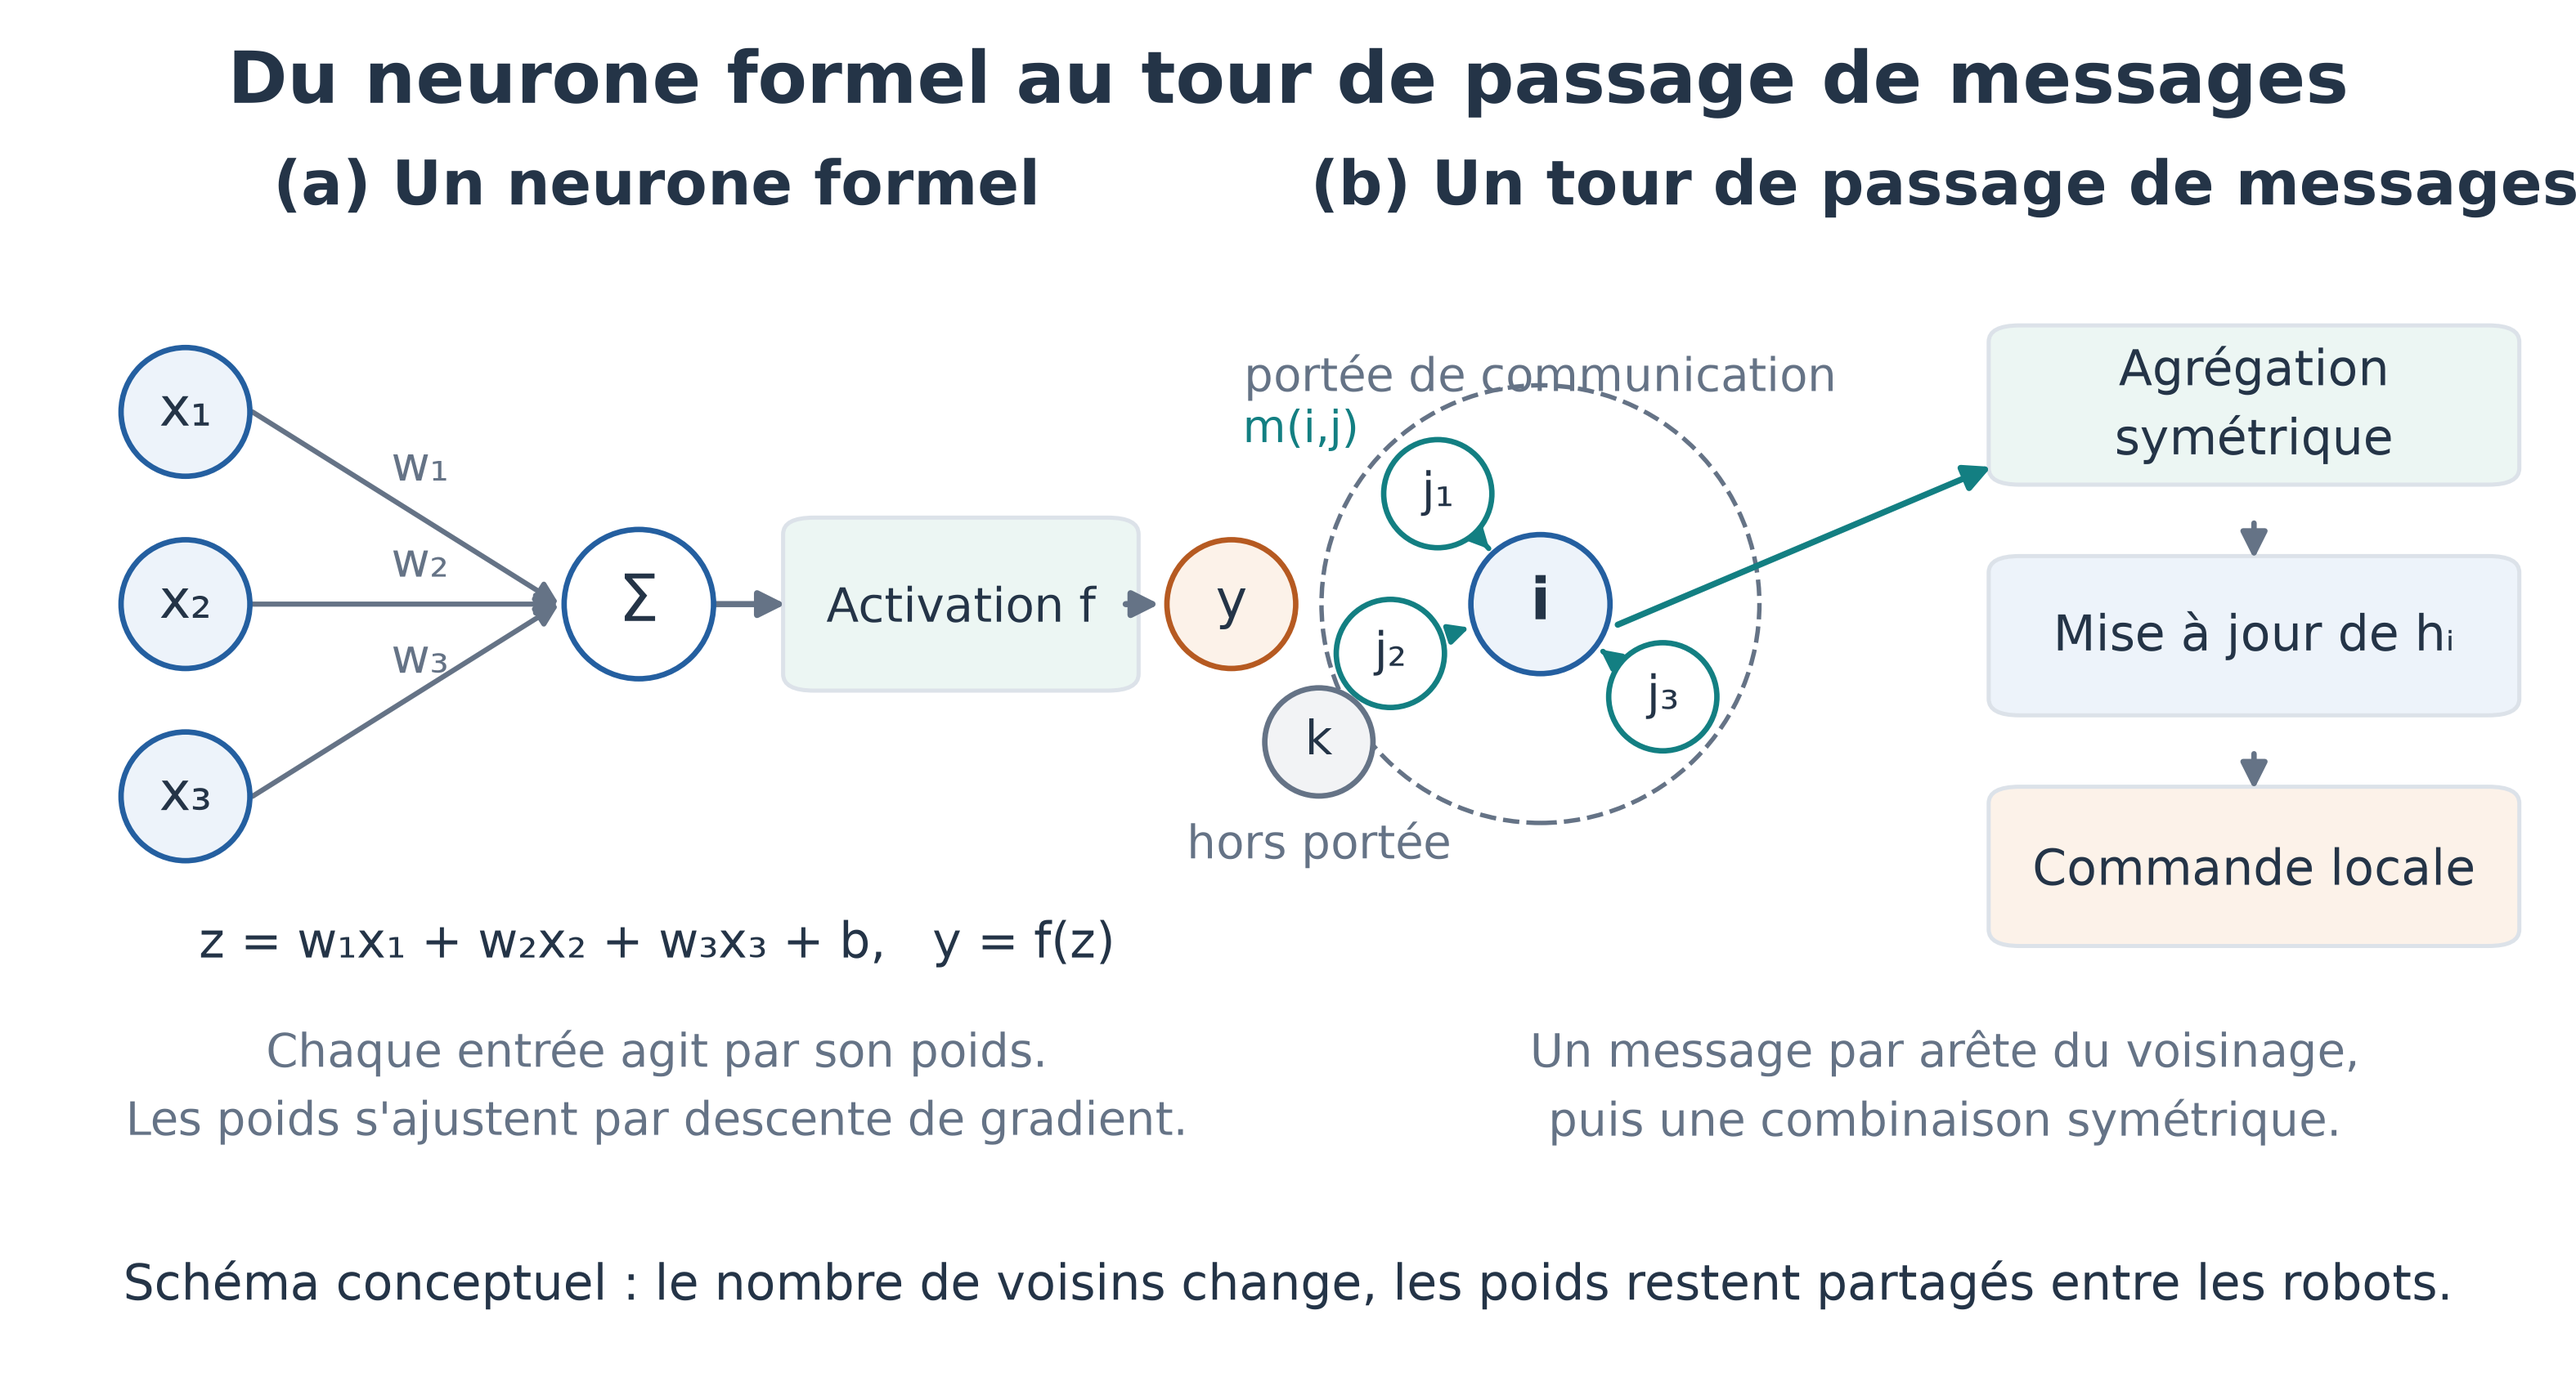
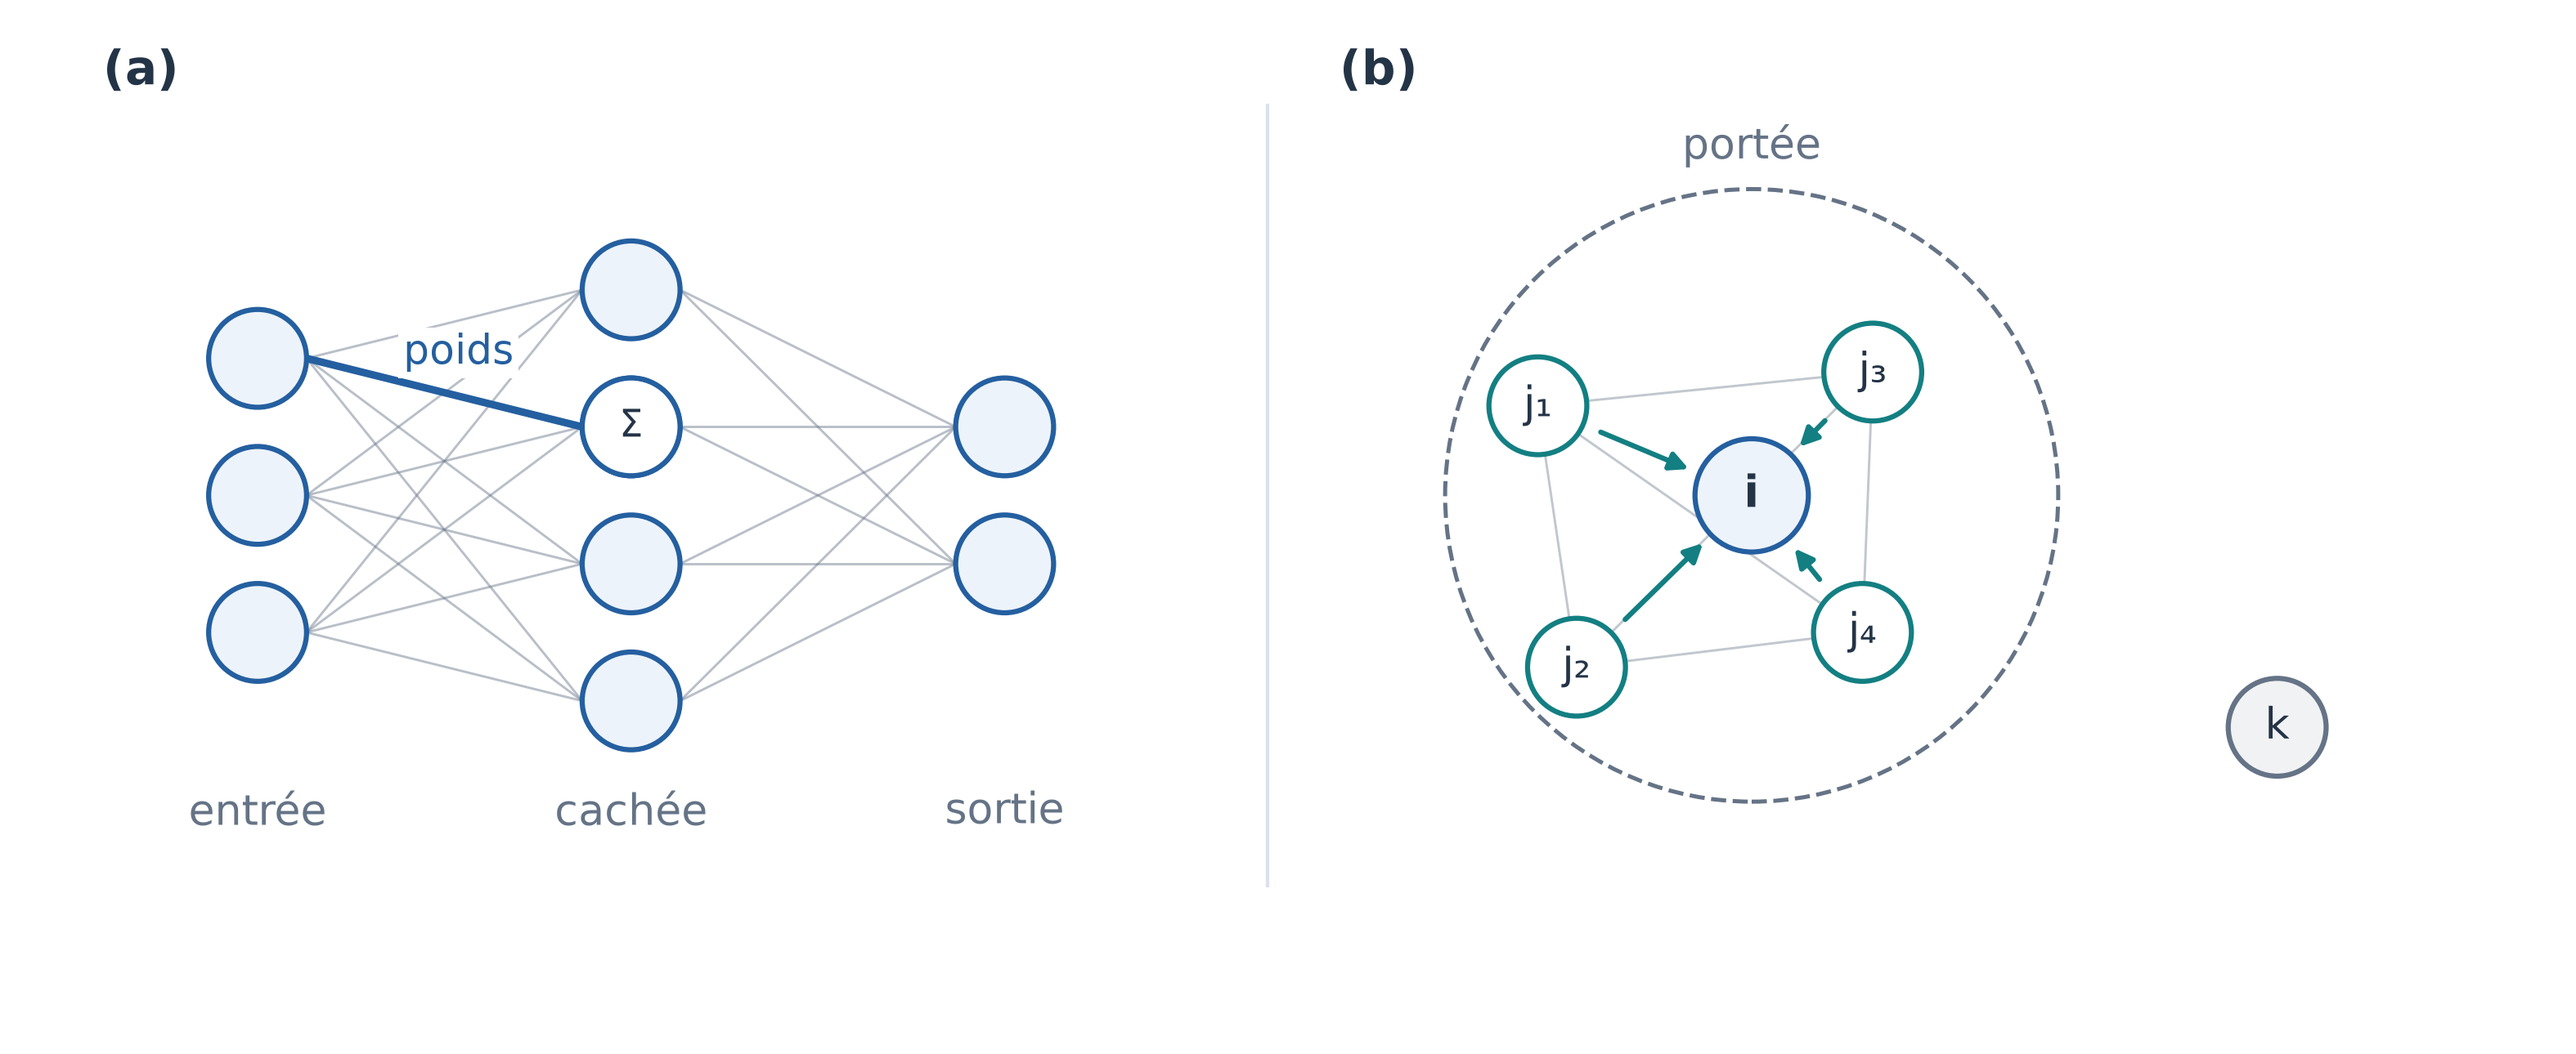
fix: redraw Figure 1.1 as a real layered network with no internal titles
The first draft carried a heading, two bold panel titles, a formula line and
three explanatory sentences inside the image, which read as a slide rather
than a manuscript figure. Panel (a) now draws an actual three-layer network
with every inter-layer connection, and the removed prose moves into the
paragraph that announces the figure so the List of Figures stays one line.

diff --git a/latex/generate_scientific_figures.py b/latex/generate_scientific_figures.py
@@ -203,64 +203,54 @@ def style_plot(ax: plt.Axes) -> None:
 
 
 def neuron_and_message_passing() -> plt.Figure:
-    height = 5.6
+    height = 4.3
     fig, ax = canvas(height)
-    header(fig, "Du neurone formel au tour de passage de messages")
     ratio = WIDTH / height
 
-    def node(x: float, y: float, radius: float, text: str, color: str = PALE_BLUE,
-             edge: str = BLUE, fontsize: float = 15.5, weight: str = "normal") -> None:
+    def node(x: float, y: float, radius: float, text: str = "", color: str = PALE_BLUE,
+             edge: str = BLUE, fontsize: float = 12.5, weight: str = "normal") -> None:
         ax.add_patch(Ellipse((x, y), 2 * radius, 2 * radius * ratio,
-                             facecolor=color, edgecolor=edge, linewidth=1.6, zorder=4))
-        ax.text(x, y, text, ha="center", va="center", fontsize=fontsize, weight=weight, zorder=5)
+                             facecolor=color, edgecolor=edge, linewidth=1.5, zorder=4))
+        if text:
+            ax.text(x, y, text, ha="center", va="center", fontsize=fontsize, weight=weight, zorder=5)
 
-    ax.text(0.255, 0.885, "(a) Un neurone formel", ha="center", va="top", weight="bold", fontsize=18)
-    hub_a = (0.248, 0.560)
-    for y, label, weight_label in ((0.700, "x₁", "w₁"), (0.560, "x₂", "w₂"), (0.420, "x₃", "w₃")):
-        node(0.072, y, 0.025, label)
-        arrow(ax, (0.098, y), (hub_a[0] - 0.031, hub_a[1]), color=GRAY, linewidth=1.5, mutation_scale=13)
-        ax.text(0.163, (y + hub_a[1]) / 2 + 0.020, weight_label, ha="center", fontsize=14, color=GRAY)
-    node(*hub_a, 0.029, "Σ", color="white", fontsize=19)
-    box(ax, 0.312, 0.505, 0.122, 0.110, "Activation f", color=PALE_TEAL, fontsize=14)
-    arrow(ax, (hub_a[0] + 0.030, hub_a[1]), (0.305, hub_a[1]), color=GRAY)
-    node(0.478, hub_a[1], 0.025, "y", color=PALE_ORANGE, edge=ORANGE)
-    arrow(ax, (0.437, hub_a[1]), (0.450, hub_a[1]), color=GRAY)
-    ax.text(0.255, 0.330, "z = w₁x₁ + w₂x₂ + w₃x₃ + b,   y = f(z)",
-            ha="center", va="top", fontsize=14.5)
-    ax.text(0.255, 0.258, "Chaque entrée agit par son poids.\nLes poids s'ajustent par descente de gradient.",
-            ha="center", va="top", fontsize=13.5, color=GRAY, linespacing=1.5)
+    ax.text(0.040, 0.92, "(a)", ha="left", fontsize=14, weight="bold")
+    ax.text(0.520, 0.92, "(b)", ha="left", fontsize=14, weight="bold")
+    ax.plot([0.492, 0.492], [0.16, 0.90], color=GRID, linewidth=1.0)
 
-    ax.text(0.755, 0.885, "(b) Un tour de passage de messages", ha="center", va="top",
-            weight="bold", fontsize=18)
-    hub = (0.598, 0.560)
-    ax.add_patch(Ellipse(hub, 0.170, 0.170 * ratio, facecolor="white", edgecolor=GRAY,
-                         linewidth=1.3, linestyle="--", zorder=1))
-    ax.text(hub[0], 0.742, "portée de communication", ha="center", va="top", fontsize=13.5, color=GRAY)
-    node(*hub, 0.027, "i", color=PALE_BLUE, weight="bold", fontsize=17)
-    for angle, label in ((130, "j₁"), (200, "j₂"), (320, "j₃")):
-        rad = np.deg2rad(angle)
-        x = hub[0] + 0.062 * np.cos(rad)
-        y = hub[1] + 0.105 * np.sin(rad)
-        node(x, y, 0.021, label, color="white", edge=TEAL, fontsize=14)
-        arrow(ax, (x, y), hub, color=TEAL, linewidth=1.5, mutation_scale=12, shrink=22)
-    ax.text(0.505, 0.678, "m(i,j)", ha="center", fontsize=13, color=TEAL,
-            bbox={"facecolor": "white", "edgecolor": "none", "pad": 1.5})
-    rad = np.deg2rad(215)
-    kx, ky = hub[0] + 0.105 * np.cos(rad), hub[1] + 0.175 * np.sin(rad)
-    node(kx, ky, 0.021, "k", color="#f2f3f5", edge=GRAY, fontsize=14)
-    ax.text(kx, ky - 0.058, "hors portée", ha="center", va="top", fontsize=13.5, color=GRAY)
-    for index, (label, face) in enumerate((("Agrégation\nsymétrique", PALE_TEAL),
-                                           ("Mise à jour de hᵢ", PALE_BLUE),
-                                           ("Commande locale", PALE_ORANGE))):
-        bottom = 0.655 - index * 0.168
-        box(ax, 0.780, bottom, 0.190, 0.100, label, color=face, fontsize=14.5)
-        if index:
-            arrow(ax, (0.875, bottom + 0.132), (0.875, bottom + 0.106), color=GRAY, linewidth=1.6)
-    arrow(ax, (hub[0] + 0.030, hub[1] - 0.015), (0.773, 0.660), color=TEAL)
-    ax.text(0.755, 0.258, "Un message par arête du voisinage,\npuis une combinaison symétrique.",
-            ha="center", va="top", fontsize=13.5, color=GRAY, linespacing=1.5)
-    ax.text(0.50, 0.082, "Schéma conceptuel : le nombre de voisins change, les poids restent partagés entre les robots.",
-            ha="center", va="top", fontsize=14.5)
+    columns = {0.100: (0.660, 0.530, 0.400),
+               0.245: (0.725, 0.595, 0.465, 0.335),
+               0.390: (0.595, 0.465)}
+    for x, ys in columns.items():
+        for y in ys:
+            node(x, y, 0.019)
+    pairs = list(columns.items())
+    for (x1, ys1), (x2, ys2) in zip(pairs, pairs[1:]):
+        for y1 in ys1:
+            for y2 in ys2:
+                ax.plot([x1 + 0.019, x2 - 0.019], [y1, y2],
+                        color=GRAY, linewidth=0.7, alpha=0.45, zorder=2)
+    ax.plot([0.119, 0.226], [0.660, 0.595], color=BLUE, linewidth=2.2, zorder=3)
+    ax.text(0.178, 0.655, "poids", ha="center", fontsize=12, color=BLUE,
+            bbox={"facecolor": "white", "edgecolor": "none", "pad": 1.5}, zorder=4)
+    node(0.245, 0.595, 0.019, "Σ", color="white", fontsize=11)
+    for x, label in ((0.100, "entrée"), (0.245, "cachée"), (0.390, "sortie")):
+        ax.text(x, 0.250, label, ha="center", va="top", fontsize=12.5, color=GRAY)
+
+    hub = (0.680, 0.530)
+    ax.add_patch(Ellipse(hub, 0.238, 0.238 * ratio, facecolor="white", edgecolor=GRAY,
+                         linewidth=1.2, linestyle="--", zorder=1))
+    ax.text(hub[0], 0.840, "portée", ha="center", va="bottom", fontsize=12.5, color=GRAY)
+    neighbors = ((0.597, 0.615, "j₁"), (0.612, 0.367, "j₂"),
+                 (0.727, 0.647, "j₃"), (0.723, 0.400, "j₄"))
+    for index, (x1, y1, _) in enumerate(neighbors):
+        for x2, y2, _ in neighbors[index + 1:]:
+            ax.plot([x1, x2], [y1, y2], color=GRAY, linewidth=0.7, alpha=0.40, zorder=1)
+    for x, y, label in neighbors:
+        node(x, y, 0.019, label, color="white", edge=TEAL)
+        arrow(ax, (x, y), hub, color=TEAL, linewidth=1.5, mutation_scale=11, shrink=20)
+    node(*hub, 0.022, "i", weight="bold", fontsize=13)
+    node(0.884, 0.310, 0.019, "k", color="#f1f2f4", edge=GRAY)
     return fig
 
 

diff --git a/latex/chapters/concept.tex b/latex/chapters/concept.tex
@@ -29,12 +29,12 @@ Enfin, un voisinage se présente sous forme d'un ensemble non ordonné, de taill
 
 Un réseau de neurones sur graphe traite des données structurées en relations plutôt qu'en grille ou en liste fixe. Le modèle introduit par Scarselli et al. propage des états entre nœuds reliés jusqu'à converger vers un point fixe, qu'un décodeur transforme en sortie \cite{scarselli2009}. Les architectures utilisées aujourd'hui préfèrent un nombre fini d'étapes, entraîné par rétropropagation classique \cite{gilmer2017}.
 
-Le déroulement d'une étape se décrit en quatre temps. Chaque nœud encode son état courant et les informations dont il dispose. Chaque arête produit un message à partir des deux nœuds qu'elle relie et de la relation entre eux. Un nœud combine ensuite les messages reçus de ses voisins. Cette combinaison, appelée agrégation, doit rester symétrique puisque l'ordre des voisins n'a pas de signification ; les fonctions invariantes par permutation ont été étudiées dans ce but pour représenter des données non ordonnées \cite{zaheer2017}. Vient enfin une étape de mise à jour, puis un décodeur qui rend la commande attendue. La Figure~\ref{fig:neurone-message} pose ces deux briques, le neurone formel d'un côté, un tour d'échange entre voisins de l'autre.
+Le déroulement d'une étape se décrit en quatre temps. Chaque nœud encode son état courant et les informations dont il dispose. Chaque arête produit un message à partir des deux nœuds qu'elle relie et de la relation entre eux. Un nœud combine ensuite les messages reçus de ses voisins. Cette combinaison, appelée agrégation, doit rester symétrique puisque l'ordre des voisins n'a pas de signification ; les fonctions invariantes par permutation ont été étudiées dans ce but pour représenter des données non ordonnées \cite{zaheer2017}. Vient enfin une étape de mise à jour, puis un décodeur qui rend la commande attendue. La Figure~\ref{fig:neurone-message} montre les deux objets que ces quatre temps relient. À gauche, des neurones rangés en couches : chaque connexion porte un poids, et un neurone additionne ce qu'il reçoit avant de le transmettre. À droite, un robot $i$ et les voisins situés à sa portée de communication, qui lui transmettent chacun un message ; le robot $k$, hors portée, n'échange rien. Les tailles de couches et le nombre de voisins dessinés sont purement illustratifs et ne décrivent pas le modèle du chapitre~\ref{chap:methode}.
 
 \begin{figure}[htbp]
   \centering
   \includegraphics[width=\linewidth]{images/neuron_and_message_passing.png}
-  \caption{Du neurone formel au tour de passage de messages. À gauche, une somme pondérée suivie d'une fonction d'activation. À droite, un robot agrège les messages des voisins à portée, met à jour son état puis calcule sa commande, avec les mêmes poids pour tous les robots. Schéma original de l'auteur, sans valeur de paramètre ni résultat d'expérience.}
+  \caption{Un réseau de neurones en couches et un voisinage de robots. Schéma original de l'auteur, sans valeur de paramètre ni résultat d'expérience.}
   \label{fig:neurone-message}
 \end{figure}
 

diff --git a/latex/PAGINATION.md b/latex/PAGINATION.md
@@ -23,7 +23,7 @@ Structure conforme aux consignes du directeur : chaque chapitre numéroté s'ouv
 
 ## Chapitres
 
-- Le chapitre 1 *Concepts de base* a été ajouté le 27 octobre 2026 ; il était déjà annoncé par le « Plan sommaire » de l'introduction générale mais n'existait pas. Il ne contient aucune valeur de paramètre, et un seul visuel, la Figure 1.1 (neurone formel et tour de passage de messages), qui est un schéma conceptuel sans résultat d'expérience.
+- Le chapitre 1 *Concepts de base* a été ajouté le 27 octobre 2026 ; il était déjà annoncé par le « Plan sommaire » de l'introduction générale mais n'existait pas. Il ne contient aucune valeur de paramètre, et un seul visuel, la Figure 1.1 (un réseau de neurones en couches d'un côté, un voisinage de robots à portée de l'autre), qui est un schéma conceptuel sans résultat d'expérience. Elle ne porte aucun titre interne, seulement les repères (a) et (b), cinq mots de légende et les lettres des nœuds.
 - Le chapitre 2 *État de l'art* suit le plan imposé : Introduction, Méthodes traditionnelles, Méthodes avancées, Quelques travaux connexes (trois études, chacune en Contexte de l'étude, Méthodologie adoptée, Aperçu sur les résultats, Critique), Positionnement, Conclusion partielle. La section *Quelques travaux connexes* a été retirée le 27 octobre 2026 puis rétablie le même jour, sur demande de l'auteur : elle est exigée par la consigne 16 du directeur et porte la critique sur laquelle s'appuie le Positionnement.
 - La *Discussion* et la *Conclusion générale et perspectives* restent des chapitres non numérotés après le chapitre 4, comme l'annoncent la consigne 16 du directeur et le « Plan sommaire » de l'introduction générale (« le mémoire compte quatre chapitres »). Leurs flottants suivent la convention déjà utilisée pour l'introduction générale (figures `I.n`) : la Discussion porte le préfixe `D.n`, la conclusion `C.n`. Le bloc `D.n` est posé dans `main.tex` avant `\include{chapters/discussion}`, le bloc `C.n` dans `chapters/discussion.tex` juste avant le chapitre de conclusion. Les sections de la Discussion, non numérotées, apparaissent dans la table des matières grâce à `\addcontentsline`, comme celles de l'introduction générale ; la numérotation continue donc sans trou apparent entre 4.18 et la bibliographie. Les anciens `\label{chap:discussion}` et `\label{chap:conclusion}`, qui résolvaient au chapitre 4, ont été supprimés ; aucun `\ref` ne les utilisait.
 
